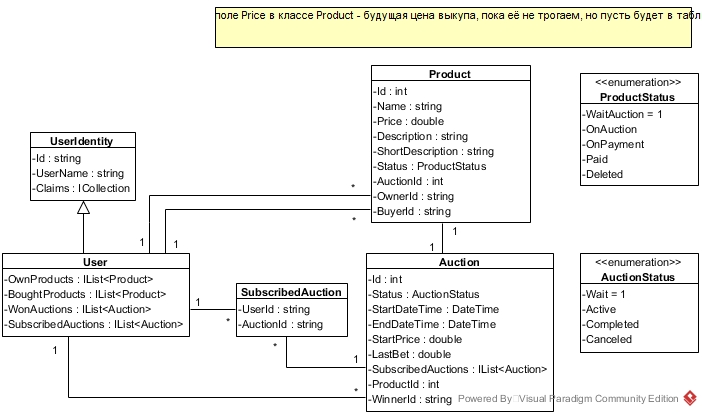
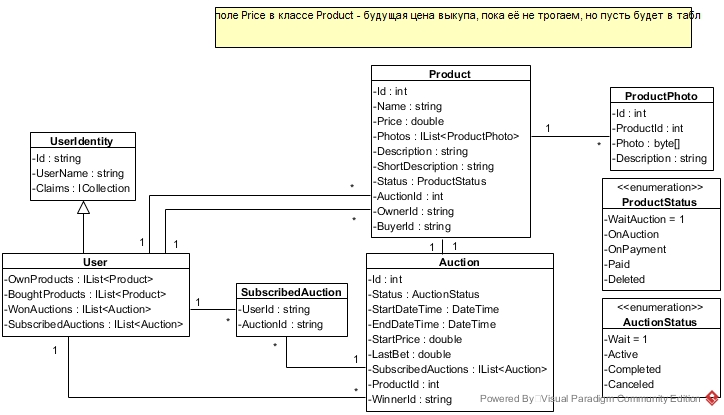
Добавлена таблица для фотографий товара

diff --git a/Auctionator/Auctionator/Data/Migrations/20181127230257_auction-0.4.cs b/Auctionator/Auctionator/Data/Migrations/20181127230257_auction-0.4.cs
@@ -1,0 +1,44 @@
+using System;
+using Microsoft.EntityFrameworkCore.Metadata;
+using Microsoft.EntityFrameworkCore.Migrations;
+
+namespace Auctionator.Data.Migrations
+{
+    public partial class auction04 : Migration
+    {
+        protected override void Up(MigrationBuilder migrationBuilder)
+        {
+            migrationBuilder.CreateTable(
+                name: "ProductPhoto",
+                columns: table => new
+                {
+                    Id = table.Column<int>(nullable: false)
+                        .Annotation("SqlServer:ValueGenerationStrategy", SqlServerValueGenerationStrategy.IdentityColumn),
+                    ProductId = table.Column<int>(nullable: false),
+                    Photo = table.Column<byte[]>(nullable: true),
+                    Description = table.Column<string>(nullable: true)
+                },
+                constraints: table =>
+                {
+                    table.PrimaryKey("PK_ProductPhoto", x => x.Id);
+                    table.ForeignKey(
+                        name: "FK_ProductPhoto_Products_ProductId",
+                        column: x => x.ProductId,
+                        principalTable: "Products",
+                        principalColumn: "Id",
+                        onDelete: ReferentialAction.Cascade);
+                });
+
+            migrationBuilder.CreateIndex(
+                name: "IX_ProductPhoto_ProductId",
+                table: "ProductPhoto",
+                column: "ProductId");
+        }
+
+        protected override void Down(MigrationBuilder migrationBuilder)
+        {
+            migrationBuilder.DropTable(
+                name: "ProductPhoto");
+        }
+    }
+}

diff --git a/Auctionator/Auctionator/Data/Migrations/20181127230257_auction-0.4.Designer.cs b/Auctionator/Auctionator/Data/Migrations/20181127230257_auction-0.4.Designer.cs
@@ -4,14 +4,16 @@ using Auctionator.Data;
 using Microsoft.EntityFrameworkCore;
 using Microsoft.EntityFrameworkCore.Infrastructure;
 using Microsoft.EntityFrameworkCore.Metadata;
+using Microsoft.EntityFrameworkCore.Migrations;
 using Microsoft.EntityFrameworkCore.Storage.ValueConversion;
 
 namespace Auctionator.Data.Migrations
 {
     [DbContext(typeof(ApplicationDbContext))]
-    partial class ApplicationDbContextModelSnapshot : ModelSnapshot
+    [Migration("20181127230257_auction-0.4")]
+    partial class auction04
     {
-        protected override void BuildModel(ModelBuilder modelBuilder)
+        protected override void BuildTargetModel(ModelBuilder modelBuilder)
         {
 #pragma warning disable 612, 618
             modelBuilder

diff --git a/Auctionator/Auctionator/Data/Mappings/ProductPhotoMap.cs b/Auctionator/Auctionator/Data/Mappings/ProductPhotoMap.cs
@@ -1,0 +1,15 @@
+using Auctionator.Models;
+using Microsoft.EntityFrameworkCore;
+using Microsoft.EntityFrameworkCore.Metadata.Builders;
+
+namespace Auctionator.Data.Mappings
+{
+    public class ProductPhotoMap : IEntityTypeConfiguration<ProductPhoto>
+    {
+        public void Configure(EntityTypeBuilder<ProductPhoto> builder)
+        {
+            builder.HasKey(x => x.Id);
+            builder.HasOne(x => x.Product).WithMany(x => x.Photos).HasForeignKey(x => x.ProductId);
+        }
+    }
+}

diff --git a/Auctionator/Auctionator/Data/Mappings/ProductMap.cs b/Auctionator/Auctionator/Data/Mappings/ProductMap.cs
@@ -16,6 +16,7 @@ namespace Auctionator.Data.Mappings
             builder.Property(x => x.Name).IsRequired();
             builder.Property(x => x.Status).IsRequired();
 
+            builder.HasMany(x => x.Photos).WithOne(x => x.Product).HasForeignKey(x => x.ProductId);
             builder.HasOne(x => x.Owner).WithMany(x => x.OwnProducts).HasForeignKey(x => x.OwnerId);
             builder.HasOne(x => x.Buyer).WithMany(x => x.BoughtProducts).HasForeignKey(x => x.BuyerId);
         }

diff --git a/Auctionator/Auctionator/Models/Product.cs b/Auctionator/Auctionator/Models/Product.cs
@@ -11,6 +11,7 @@ namespace Auctionator.Models
         public int Id { get; set; }
         public string Name { get; set; }
         public double Price { get; set; }
+        public IList<ProductPhoto> Photos { get; set; }
         public string Description { get; set; }
         public string ShortDescription { get; set; }
         public ProductStatus Status { get; set; } 

diff --git a/Auctionator/Auctionator/Models/ProductPhoto.cs b/Auctionator/Auctionator/Models/ProductPhoto.cs
@@ -1,0 +1,11 @@
+namespace Auctionator.Models
+{
+    public class ProductPhoto
+    {
+        public int Id { get; set; }
+        public int ProductId { get; set; }
+        public Product Product { get; set; }
+        public byte[] Photo { get; set; }
+        public string Description { get; set; }
+    }
+}
